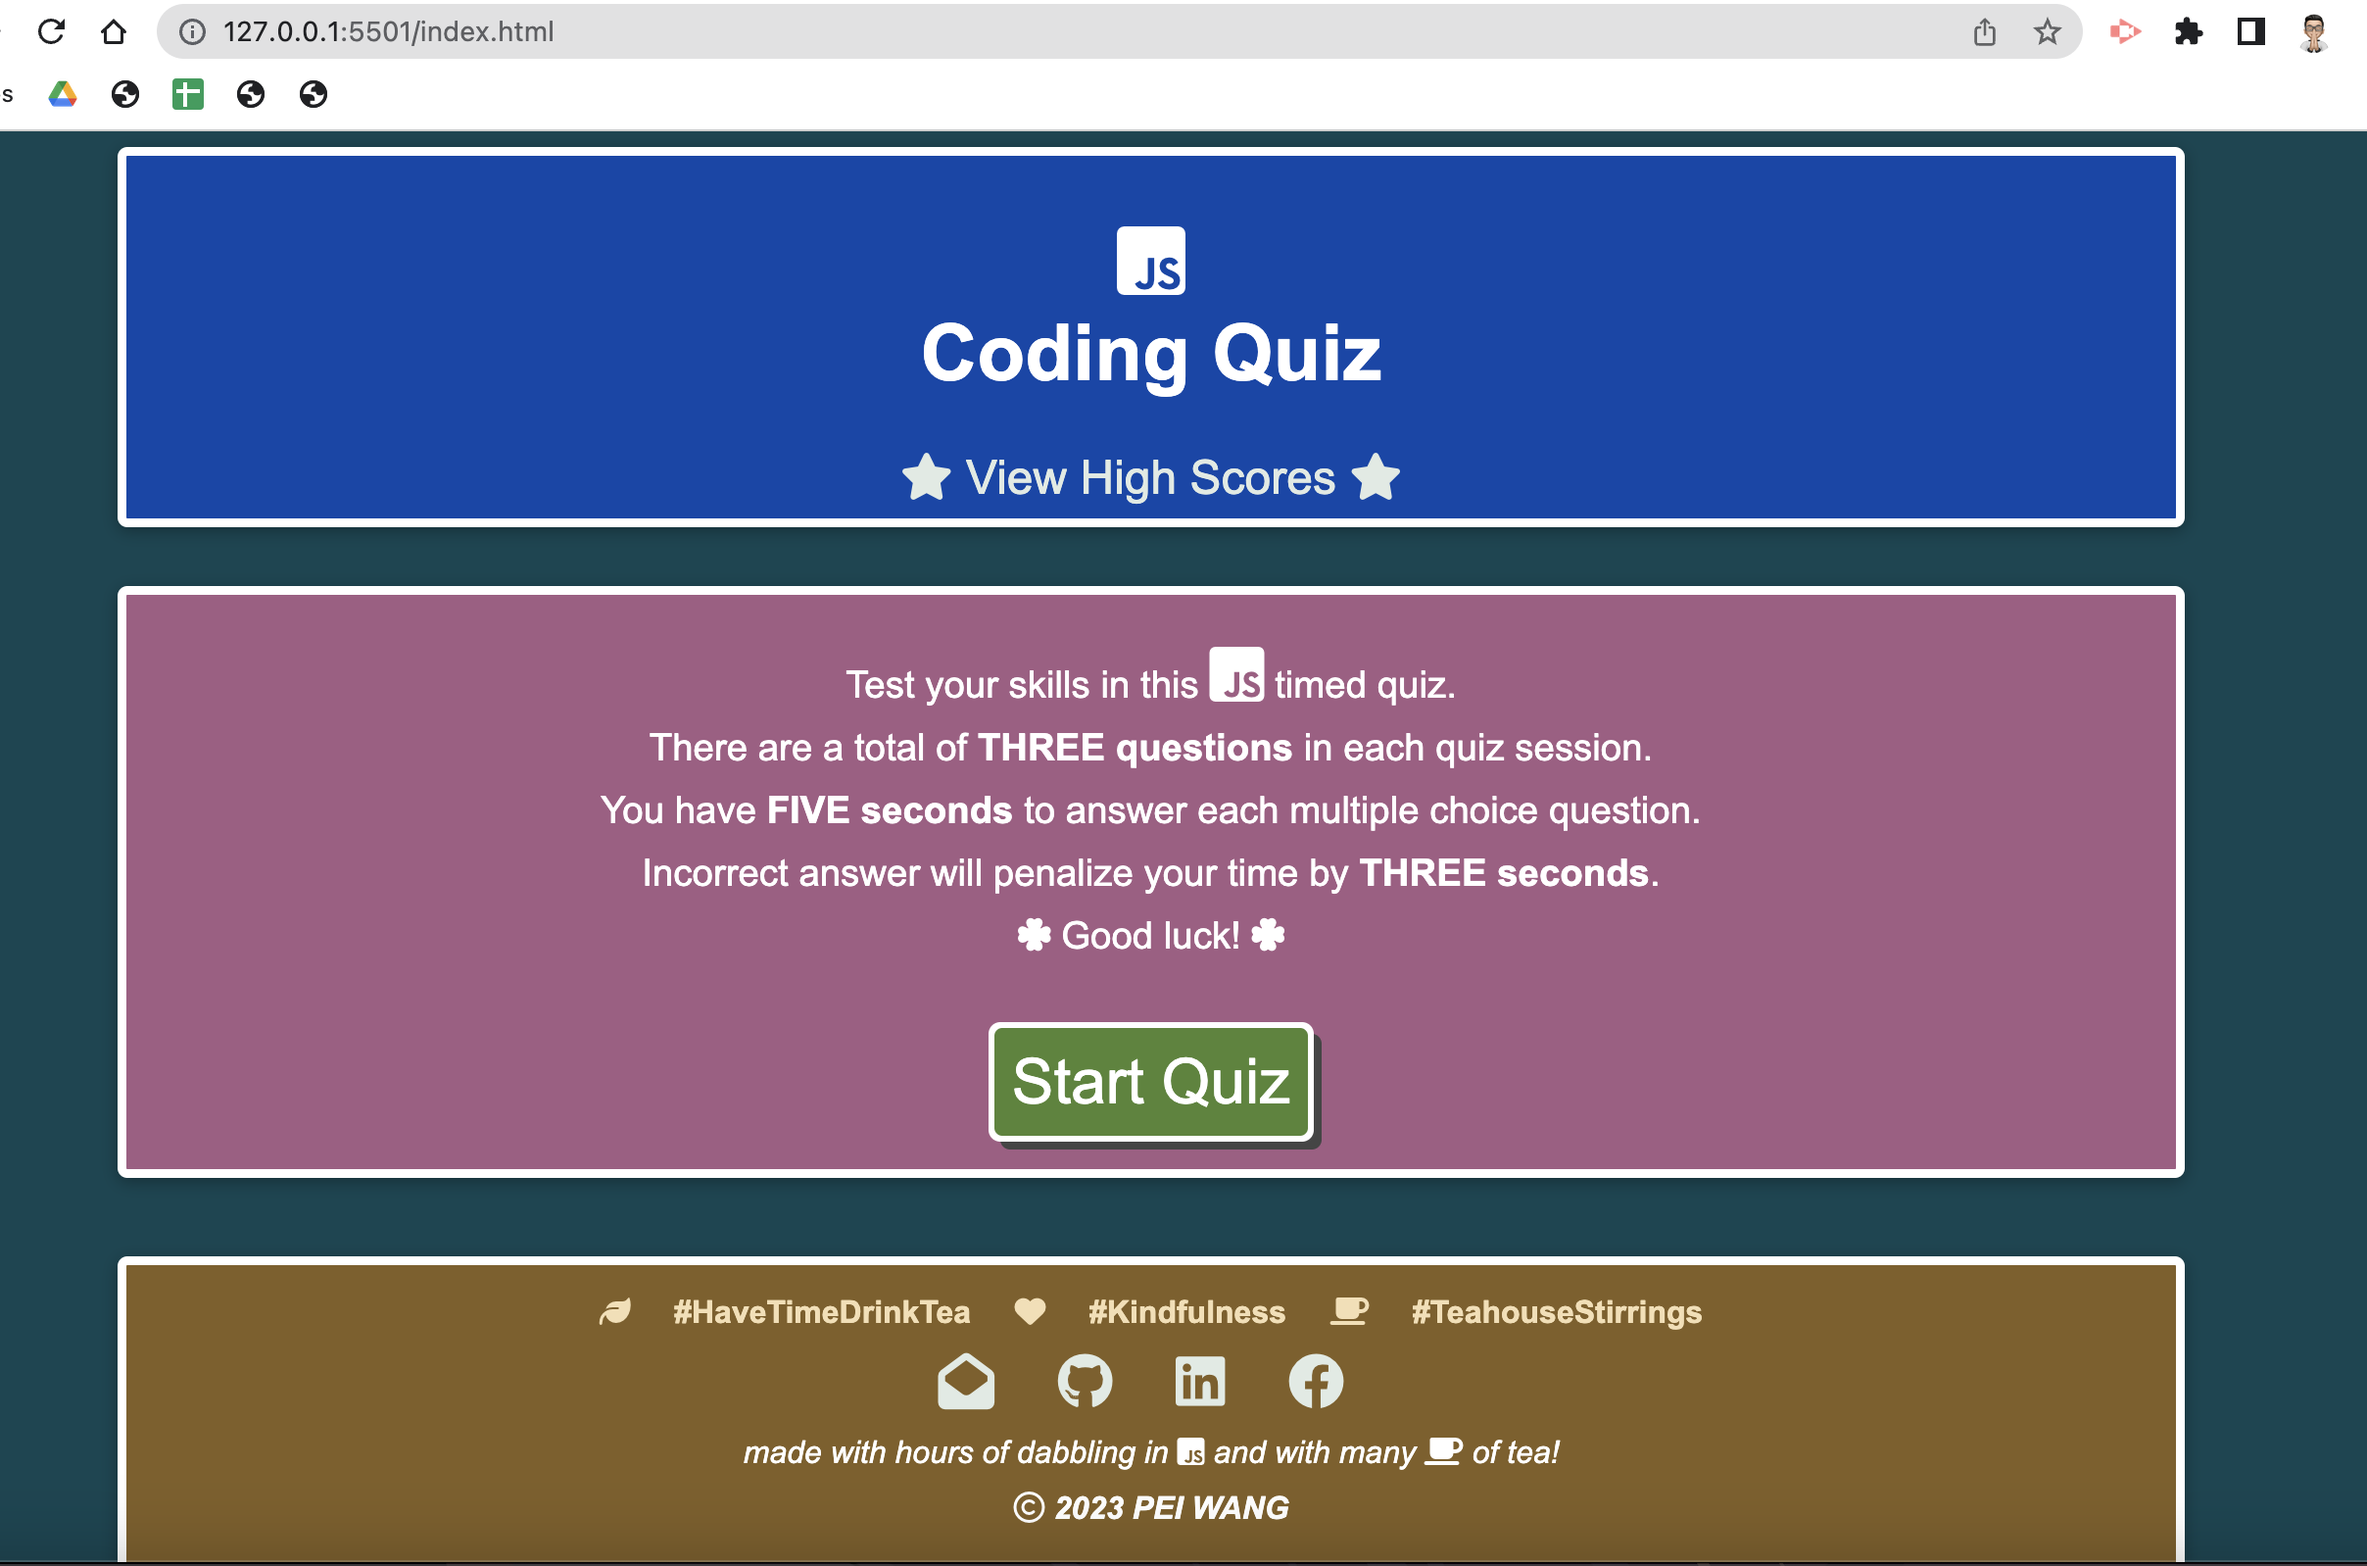
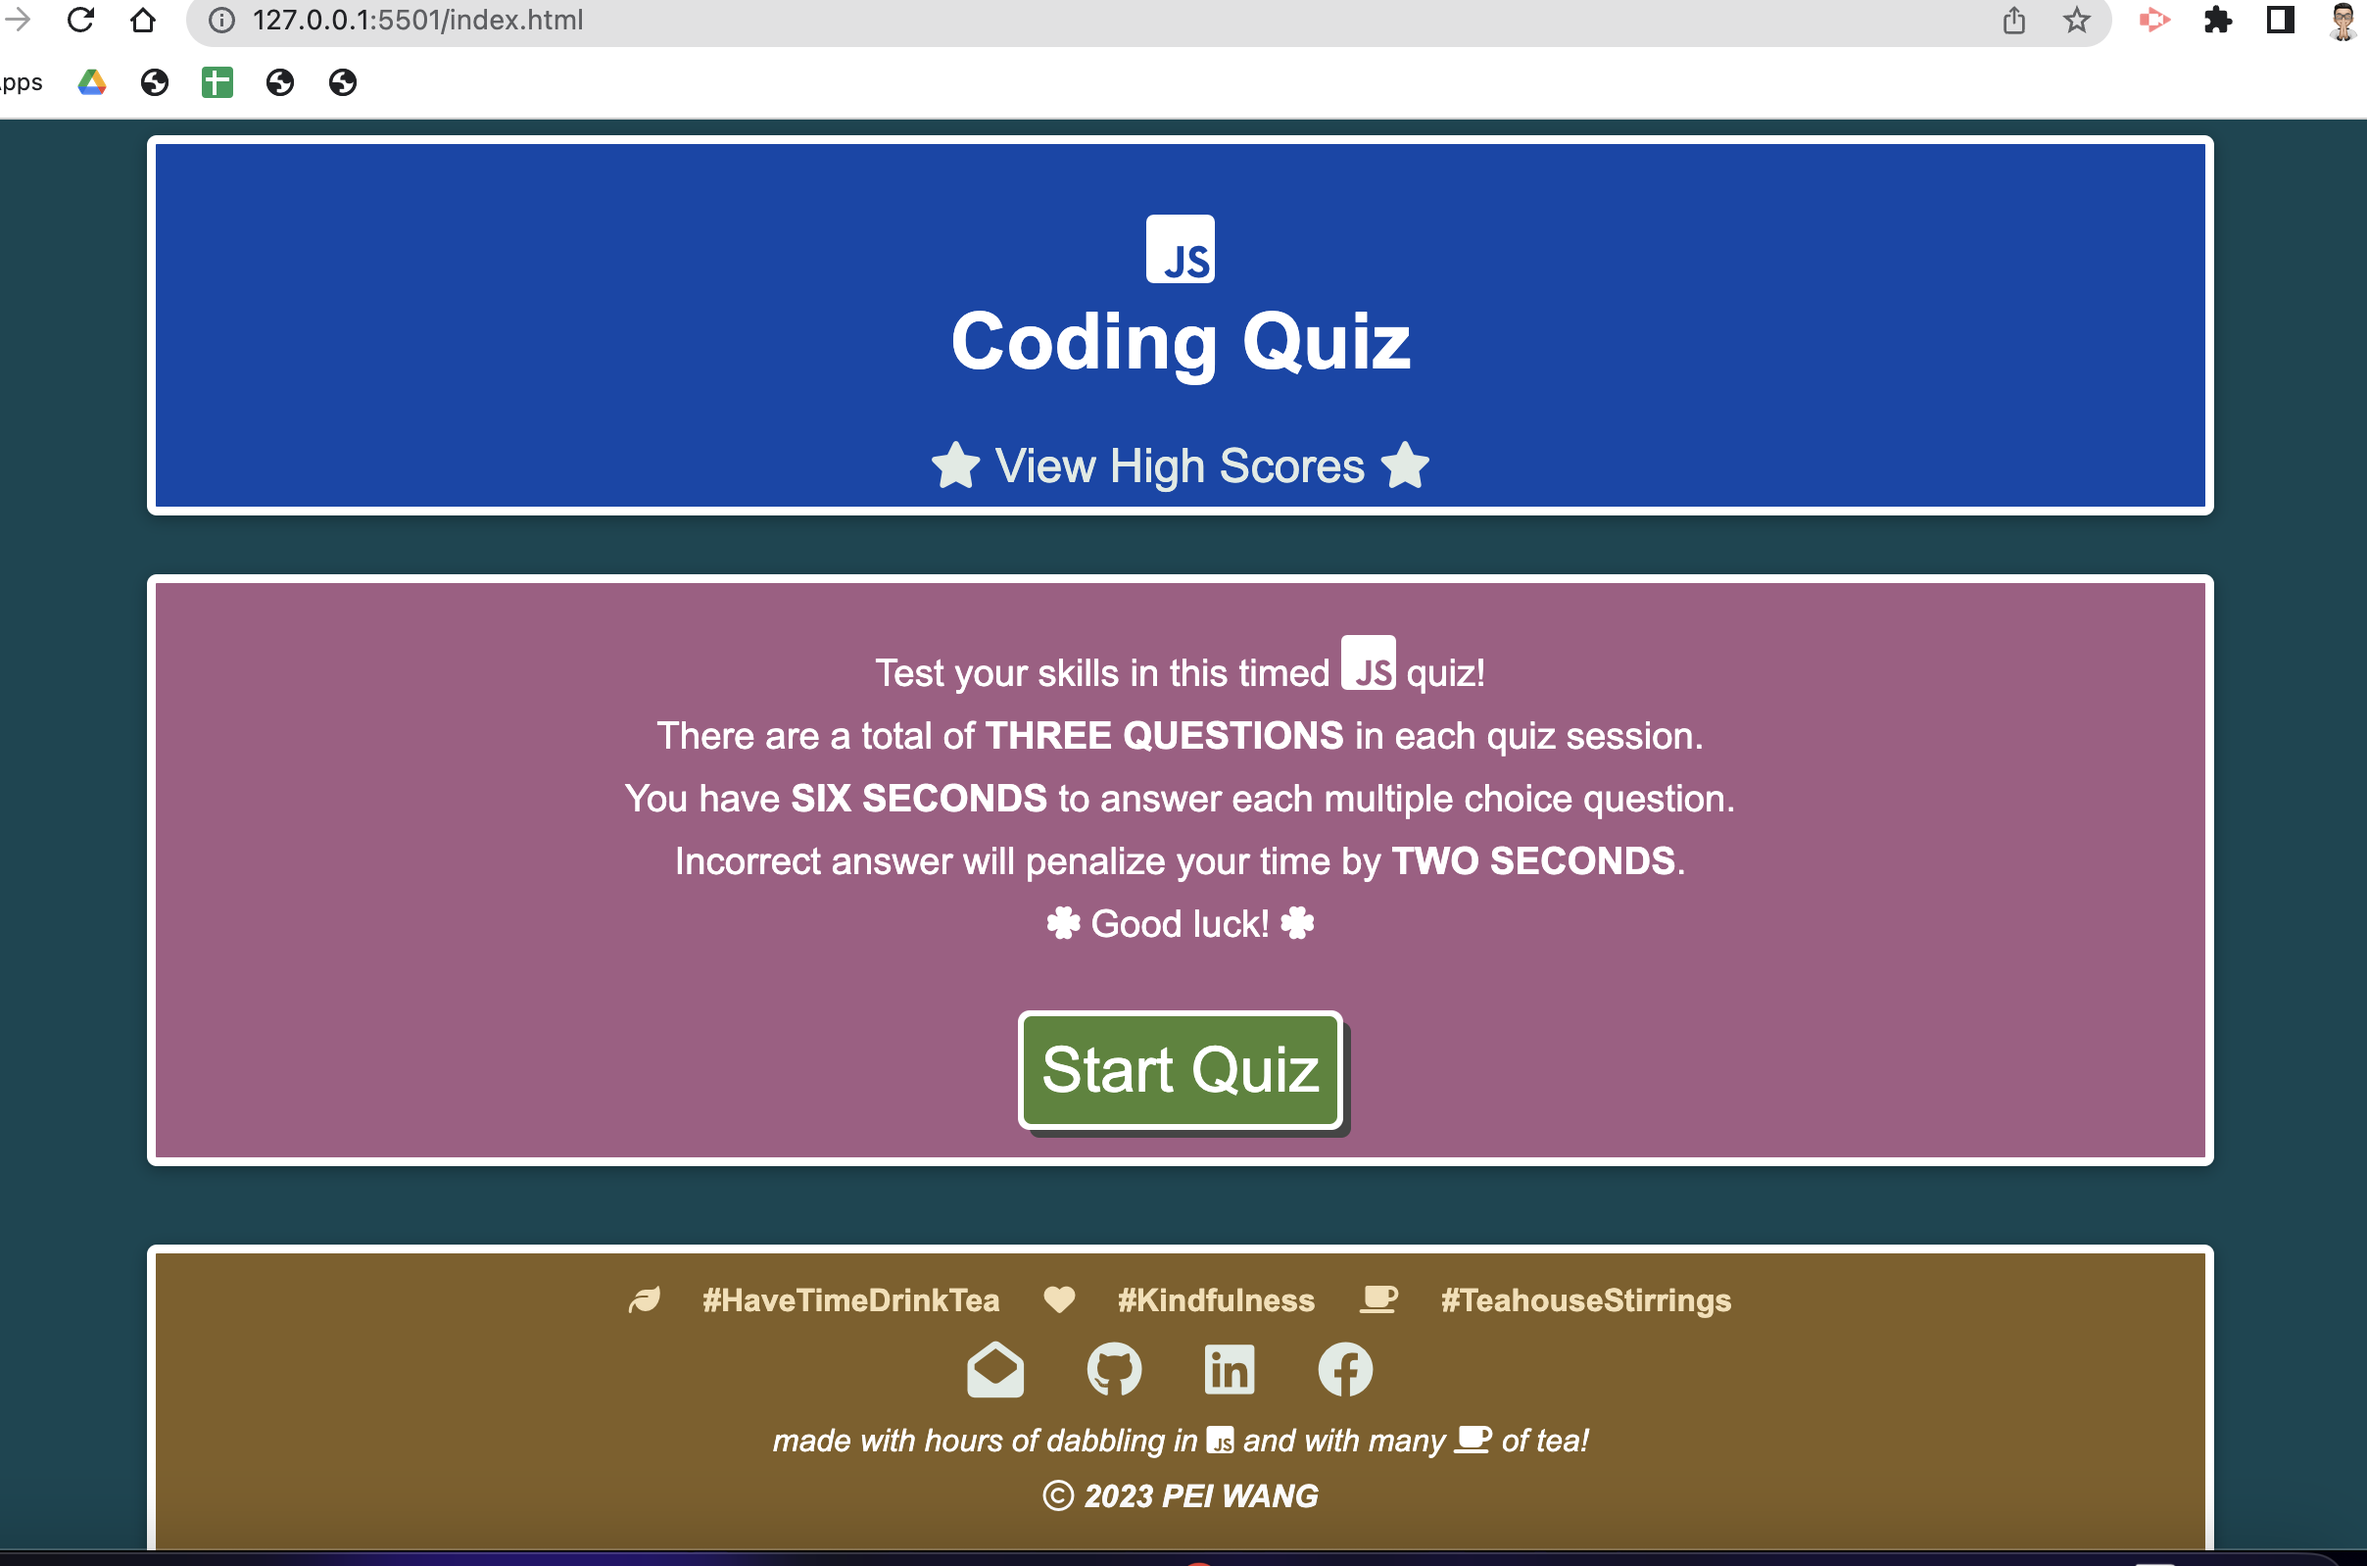
final tidy up done.

Changed region(s): [[0.0, 0.0, 1.0, 0.3373], [0.031, 0.368, 0.9623, 0.7666], [0.0, 0.7972, 1.0, 1.0]]

diff --git a/assets/scripts/logic.js b/assets/scripts/logic.js
@@ -9,6 +9,7 @@ const startButtonElQ = document.querySelector("#startButton");
 
 const endScreenDivElQ = document.querySelector("#endScreen");
 const restartButtonElQ = document.querySelector("#restartButton");
+const backButtonElQ = document.querySelector("#backButton");
 const userScoreMsgSpanElQ = document.querySelector("#userScoreMsg");
 
 const questionsDivElQ = document.querySelector("#questionsDiv");
@@ -40,10 +41,12 @@ var questionSecAllowed; // 5 secs per question
 var userScoreCurr = 0;
 var penaltyCount = 0;
 var secondsDeducted = 0;
-var wrongAnsTimeDeduct = 3; 
+var wrongAnsTimeDeduct = 2; 
 
 // Array to hold user stats in the local storage
 var userStatsArray;
+
+// get the restart game flag from local storage. This is set by the highScores.html. If flag is true then run the quiz immediately 
 
 
 // initialization
@@ -55,38 +58,46 @@ function initQuiz() {
     chosenQuestion = [];
     userScoreCurr = 0;
     numQuestionReq = 3;
-    questionSecAllowed = 5;
+    questionSecAllowed = 6;
     timerCount = questionSecAllowed * numQuestionReq; 
     userAnswer = "";
     correctAnswer = "";
+    penaltyCount = 0;
+    secondsDeducted = 0;
+    timerDivElQ.setAttribute("class", "hide");
+    timerPenaltyMsgSpanElQ.innerHTML = "";
+    timeCountDownSpanElQ.textContent = "";
 }
+
+// initialize the page on load
+initQuiz();
 
 //- Create timer function
 
 function startTimer() {
-    timerDivElQ.setAttribute("class", "timer");
     // Sets timer
     timer = setInterval(function() {
         timerCount--;
 
-        timeCountDownSpanElQ.textContent = ": " + timerCount + "s left";
+        timeCountDownSpanElQ.textContent = "Time: " + timerCount + "s left";
         if (timerCount >= 0) {
         // Tests if win condition is met
             if (!(quizActive) && timerCount > 0) {
                 // Clears interval and stops timer
                 clearInterval(timer);
-                timeCountDownSpanElQ.textContent = ": " + timerCount + "s left";
+                timeCountDownSpanElQ.textContent = "Time: " + timerCount + "s left";
             };
         }
         // Tests if time has run out
         if (timerCount === 0) {
             // Clears interval
             clearInterval(timer);
-            timeCountDownSpanElQ.textContent = " is up!";
+            timeCountDownSpanElQ.textContent = "Time is up!";
             quizActive = false;
             endQuiz();
         };
     }, 1000);
+    timerDivElQ.setAttribute("class", "timer");
 }
 
 
@@ -94,18 +105,25 @@ function startTimer() {
 // Start or restart the Quiz with event listeners
 
 startButtonElQ.addEventListener("click", function(event) {
-    initQuiz()
-    renderQuestion();
+    initQuiz();
     startTimer();
+    renderQuestion();
 }
 );
 
 restartButtonElQ.addEventListener("click", function(event) {
     initQuiz();
-    renderQuestion();
     startTimer();
-}
-);
+    renderQuestion();
+});
+
+backButtonElQ.addEventListener("click", function(event) {
+    highScoresDivElQ.setAttribute("class","visible");
+    startScreenDivElQ.setAttribute("class","visible");
+    timerDivElQ.setAttribute("class","hide");
+    questionsDivElQ.setAttribute("class","hide");
+    endScreenDivElQ.setAttribute("class","hide");
+});
 
 
 // Rendering the questions
@@ -138,7 +156,7 @@ function renderQuestion() {
     // make the relevant div to be visible or hidden
     highScoresDivElQ.setAttribute("class","hide");
     startScreenDivElQ.setAttribute("class","hide");
-    timerPenaltyMsgSpanElQ.setAttribute("class","hide");
+    timerPenaltyMsgSpanElQ.setAttribute("class","visible");
     endScreenDivElQ.setAttribute("class","hide");
     feedbackDivElQ.setAttribute("class","hide");
     questionsDivElQ.setAttribute("class","visible");
@@ -179,7 +197,6 @@ function activeQuiz(event) {
 // apply penalty if answer is wrong
 
 function checkAnswer() {
-    console.log("checkAns== userAnswer is", userAnswer,"vs correctAnswer is", correctAnswer);
     if ( (userAnswer === correctAnswer)) {
         answerMsgDivElQ.innerHTML = "<i class='fa-solid fa-face-smile-halo'></i> Correct!!!!! 🙆🏻♂";
         userScoreCurr ++;
@@ -209,9 +226,9 @@ function endQuiz() {
     
     //- set user score messages
     if (userScoreCurr === numQuestionReq) {
-        userScoreMsgSpanElQ.innerHTML = "<i class='fa-solid fa-trophy-star'></i>Very Well done! You have a perfect score of " + userScoreCurr + " out of " + numQuestionReq +"!";
+        userScoreMsgSpanElQ.innerHTML = "<i class='fa-regular fa-face-grin'></i> Well done! You have a perfect score of " + userScoreCurr + " out of " + numQuestionReq +"!";
     } else if ((userScoreCurr > 0) && (userScoreCurr < numQuestionReq)) {
-        userScoreMsgSpanElQ.innerHTML = "<i class='fa-solid fa-face-unamused'></i> Close but no cigar! Your score is " + userScoreCurr + ". <br> Aim for perfect score next time! <br> <i class='fa-solid fa-person-digging'></i> You can do it!";
+        userScoreMsgSpanElQ.innerHTML = "<i class='fa-regular fa-face-meh'></i> Close but no cigar! Your score is " + userScoreCurr + ". <br> Aim for perfect score next time! <br> <i class='fa-solid fa-person-digging'></i> You can do it!";
     } else {
         userScoreMsgSpanElQ.innerHTML = "<i class='fa-solid fa-face-grimace'></i> Oh dear! Your score is " + userScoreCurr + ". <br> Please try harder! <i class='fa-solid fa-dumbbell'></i> You can make it!";
     };
@@ -299,6 +316,5 @@ function prepHighScore() {
 }
 
 
-// initialize the page on load
-initQuiz();
+
 

diff --git a/index.html b/index.html
@@ -25,16 +25,16 @@
     <main>
     <div class="wrapper">
       <div id="timer" class="hide">
-        Time<span id="timeCountDown">: 0s</span>
+        <span id="timeCountDown"></span>
         <span id="penaltyMsg" class="hide"></span>
 
       </div>
       <div id="startScreen" class="start">
         <p>
-          Test your skills in this <i class="fa-brands fa-square-js" style="font-size: 2rem;"></i> timed quiz. 
-          <br>There are a total of <strong>THREE questions </strong>in each quiz session.
-          <br>You have <strong>FIVE seconds</strong> to answer each multiple choice question. 
-          <br>Incorrect answer will penalize your time by <strong>THREE seconds</strong>.
+          Test your skills in this timed <i class="fa-brands fa-square-js" style="font-size: 2rem;"></i> quiz!
+          <br>There are a total of <strong>THREE QUESTIONS</strong> in each quiz session.
+          <br>You have <strong>SIX SECONDS</strong> to answer each multiple choice question. 
+          <br>Incorrect answer will penalize your time by <strong>TWO SECONDS</strong>.
           <br><i class="fa-solid fa-clover"></i> Good luck! <i class="fa-solid fa-clover"></i>
         </p>
         <button id="startButton">Start Quiz</button>
@@ -47,20 +47,21 @@
       </div>
 
       <div id="endScreen" class="hide">
-        <h2><i class="fa-brands fa-square-js"></i> Quiz Completed</h2>
-        <p class="msg">
-          <span id="userScoreMsg"></span>
-        </p>        
-        <p class="inputScore">
+
+        <div class="inputScoreUser">
+          <h2><i class="fa-brands fa-square-js"></i> Quiz Completed</h2>
+          <p class="msg">
+            <span id="userScoreMsg"></span>
+          </p>        
           Enter initials: <input type="text" id="initials" max="3" />
           <button id="submitUser">Submit</button>
-        </p>
+        </div>
         <div id="feedback" class="hide"><span id="highScoreMsg"></span></div>
         <br><br>
-        <p class="inputScore"> Do you want to take the quiz again? 
-          <button id="restartButton">Restart Quiz</button>
-          <br> <span style="font-size:0.8rem; font-style: italic;">(without saving your current score)</span>
-        </p>
+        <div class="inputScoreRetake"> Do you want to take the quiz again? 
+          <button id="backButton">No</button>
+          <button id="restartButton">Yes</button>
+        </div>
       </div>
       
     </div>

diff --git a/assets/scripts/scores.js b/assets/scripts/scores.js
@@ -1,10 +1,10 @@
 // define variables
-var highScoresTableOLElQ = document.querySelector("#highScoresTable");
+const highScoresTableOLElQ = document.querySelector("#highScoresTable");
 
-var highScoresTitleEllQ = document.querySelector("#highScoreTitle");
+const highScoresTitleEllQ = document.querySelector("#highScoreTitle");
 
-var clearButtonElQ = document.querySelector("#clear");
-var startButtonElQ = document.querySelector("#startButton");
+const clearButtonElQ = document.querySelector("#clear");
+const reStartButtonElQ = document.querySelector("#reStartButton");
 
 
 var userStatsStored = JSON.parse(localStorage.getItem("userStats"));
@@ -20,7 +20,11 @@ if (userStatsStored === null) {
 
 } else {
     for (let i = 0; i < userStatsStored.length; i++) {
-            highScoresTableData = highScoresTableData + "<li>" + (userStatsStored[i].userInitials).toUpperCase() + " (" + userStatsStored[i].userScore + ")" + "</li>";
+            let pointsText = "points";
+            if (userStatsStored[i].userScore < 1) {  
+                pointsText = "point"; 
+            }; 
+            highScoresTableData = highScoresTableData + "<li>" + (userStatsStored[i].userInitials).toUpperCase() + " --- [" + userStatsStored[i].userScore + " " + pointsText + "]" + "</li>";
         };
         
     highScoresTitleEllQ.setAttribute("class","visibleInline");
@@ -36,7 +40,6 @@ function clearHighScores() {
     window.localStorage.removeItem("userStats");
     highScoresTableOLElQ.innerHTML = "All the high score stats has been cleared! <br><br> Now you can conquer this quiz all over again!";
     clearButtonElQ.setAttribute("class","hide");
-    startButtonElQ.setAttribute("class","visibleInline");
 }
 
 
@@ -44,6 +47,7 @@ clearButtonElQ.addEventListener("click", function(event) {
     clearHighScores();
 }
 );
+
 
 
 

diff --git a/assets/css/styles.css b/assets/css/styles.css
@@ -215,6 +215,11 @@ li {
   background-color: var(--colorTealMedium);
 }
 
+li:hover {
+  background-color: var(--colorMustard);
+  cursor: grab;
+}
+
 /* li:nth-child(odd) {
   background-color: #f3edfc;
 } */
@@ -314,4 +319,21 @@ li {
 
 #highScoreTitle {
   padding: 5px;
+}
+
+.inputScoreUser {
+  font-size: 1.5rem;
+  max-width: 90%;
+  background-color: var(--colorBrown1);
+  padding: 1rem;
+  margin: 10px auto
+}
+
+
+.inputScoreRetake {
+  font-size: 1.5rem;
+  max-width: 90%;
+  background-color: var(--colorTealDark);
+  padding: 1rem;
+  margin: 0px auto;
 }

diff --git a/highscores.html b/highscores.html
@@ -15,7 +15,7 @@
   
   </head>
 
-  <body>
+  <body> 
     <header>
       <h1><i class="fa-brands fa-square-js"></i> <br> Coding Quiz League Table</h1>
     </header>
@@ -26,7 +26,6 @@
 
       <a href="index.html" target="_self" alt="click to go to home page" title="Home page"><button>Go Back</button></a>
       <button id="clear" class="visibleInline">Clear Scores</button>
-      <button id="startButton" class="hide">Start Quiz</button>
     </div>
     </main>
     <footer>
